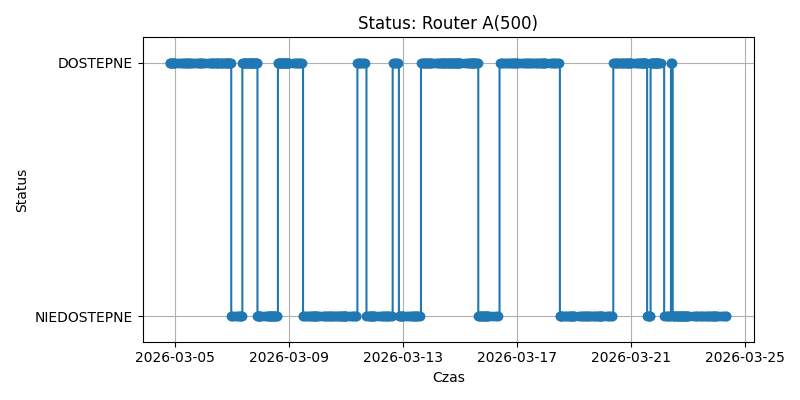
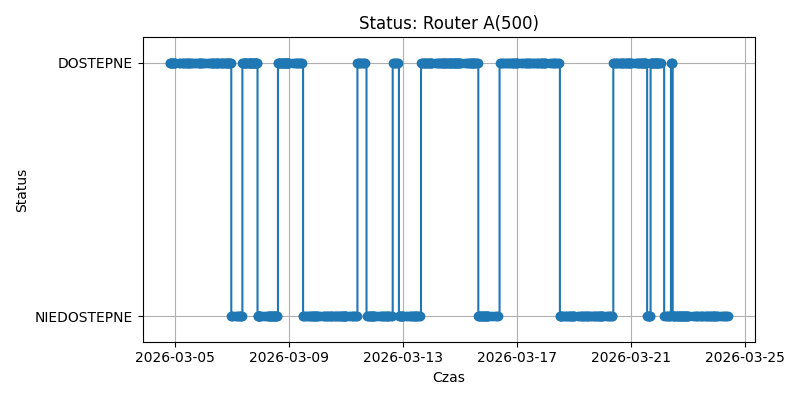
Automatyczna aktualizacja monitoringu

Changed region(s): [[0.4375, 0.03, 0.6875, 0.09]]

diff --git a/index.html b/index.html
@@ -33,5 +33,5 @@ img { border: 1px solid #ccc; border-radius: 8px; }
                 <div>Router C(300)</div>
                 <img src="chart_Router C(300).png" alt="Router C(300)" style="max-width:600px; margin-top:10px;">
             </div>
-            <p>Ostatnia zmiana: 2026-03-24 08:09:31</p>
+            <p>Ostatnia zmiana: 2026-03-24 09:08:47</p>
 </body></html>
